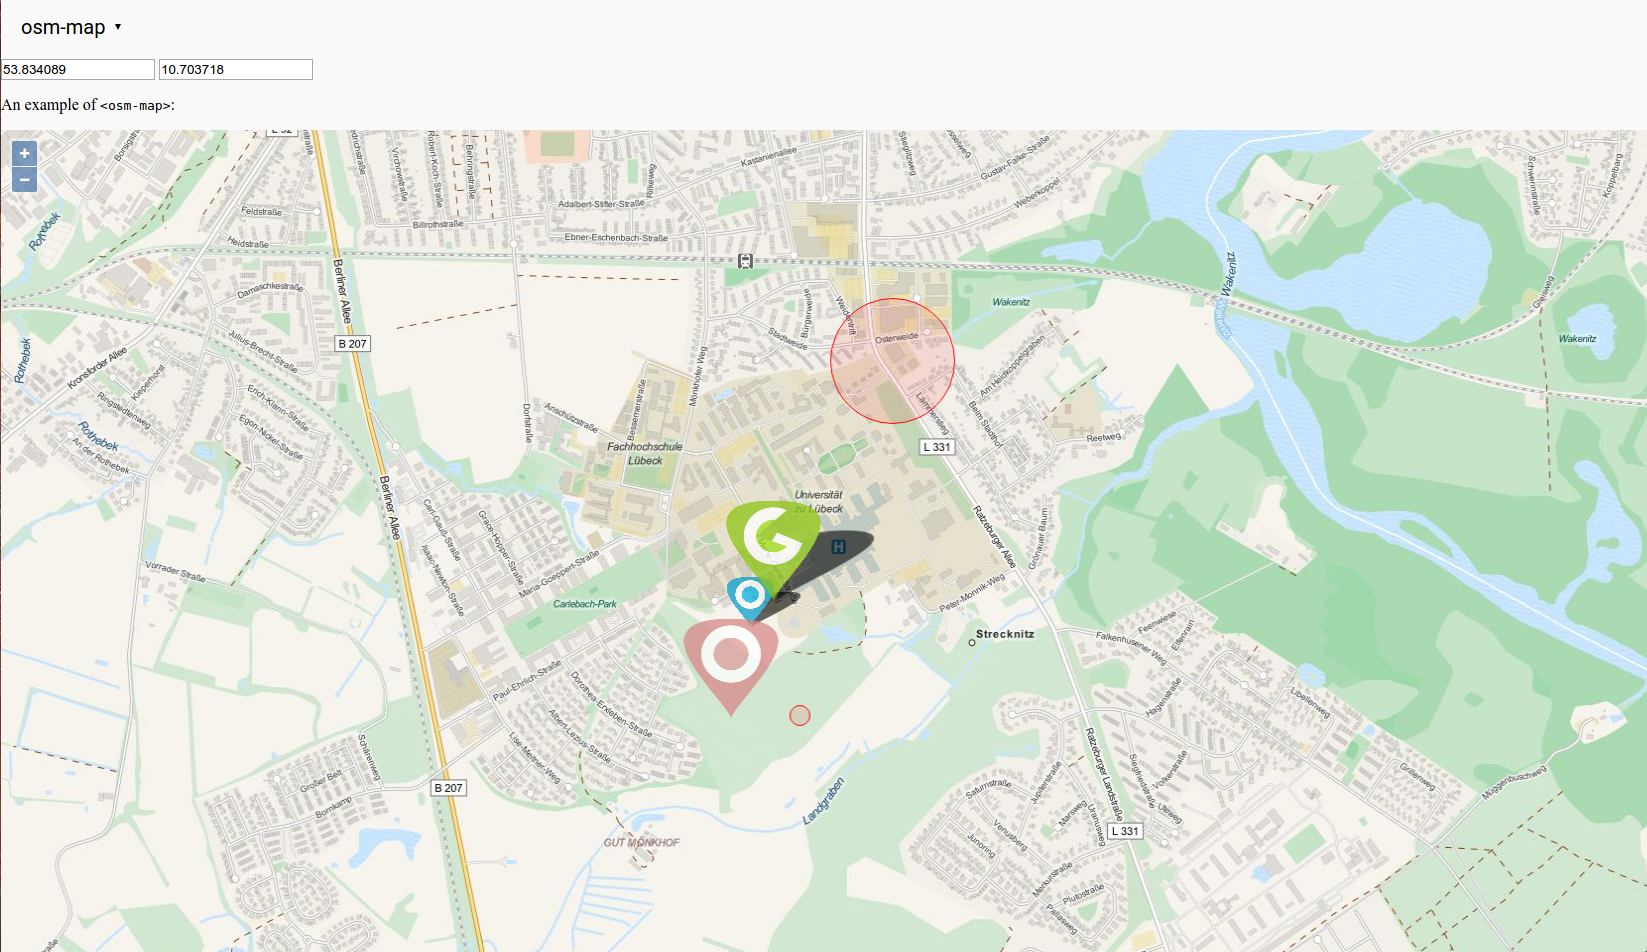
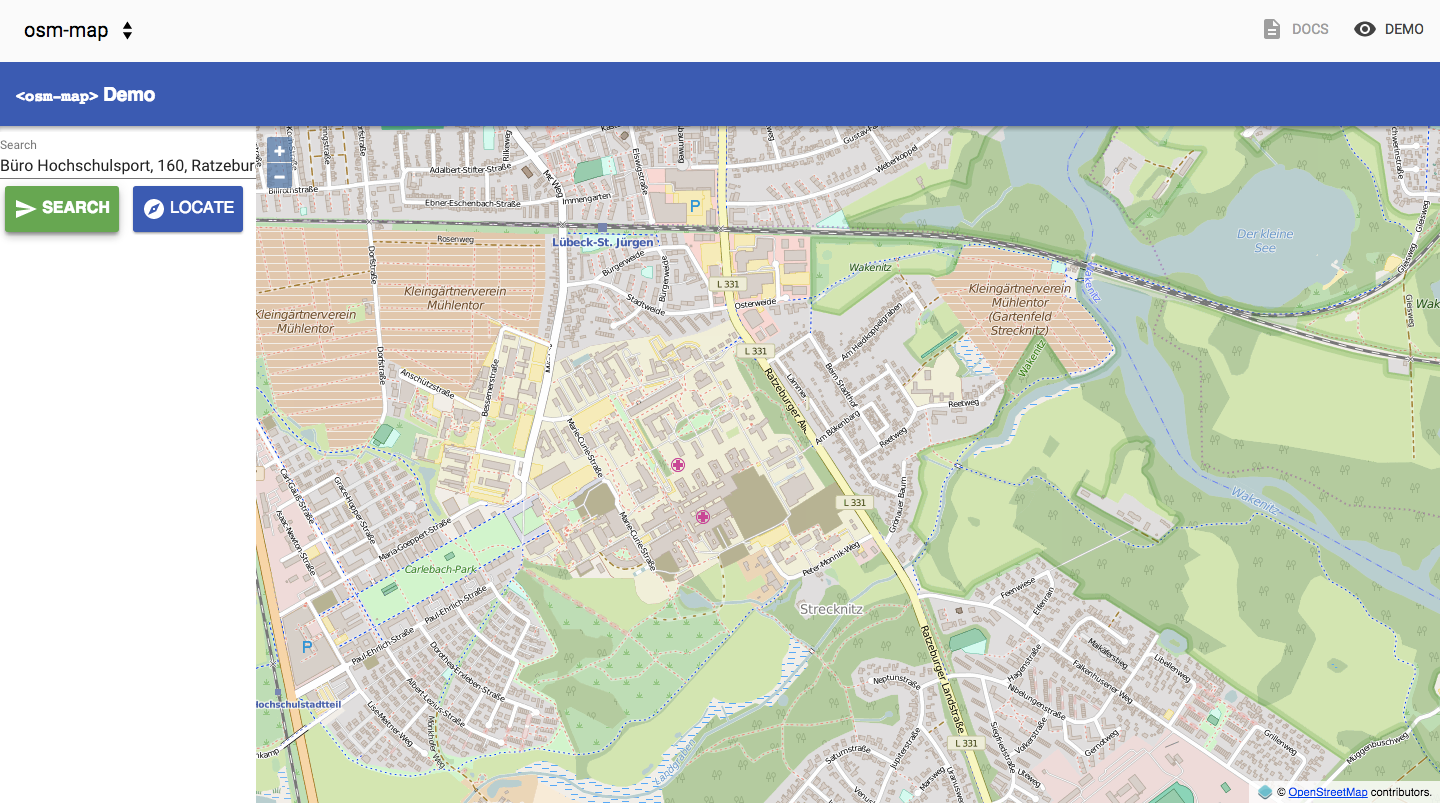
add location and geocoding to demo

diff --git a/demo/index.html b/demo/index.html
@@ -12,9 +12,10 @@
     <link rel="import" href="../../paper-toolbar/paper-toolbar.html">
     <link rel="import" href="../../paper-icon-button/paper-icon-button.html">
     <link rel="import" href="../../paper-button/paper-button.html">
-    <link rel="import" href="../../iron-icons/iron-icons.html" >
-    <link rel="import" href="../../iron-icon/iron-icon.html" >
-    <link rel="import" href="../../iron-ajax/iron-ajax.html"></link>
+    <link rel="import" href="../../iron-icons/iron-icons.html">
+    <link rel="import" href="../../iron-icon/iron-icon.html">
+    <link rel="import" href="../../iron-ajax/iron-ajax.html">
+    <link rel="import" href="../../paper-styles/color.html">
     <link rel="import" href="../osm-map.html">
     <link rel="import" href="../osm-marker.html">
     <link rel="import" href="../osm-layer.html">
@@ -28,11 +29,19 @@
         overflow: hidden;  
         font-family: 'Open Sans', sans-serif;
       }
+
+      paper-button {
+        background-color: #3f51b5;
+        color: white;
+      }
+
+      paper-button.green {
+        background-color: #4caf50;
+      }
     </style>
   </head>
   <body unresolved>
     <template id="demo" is="dom-bind">
-
       <iron-ajax
         id="ajax"
         verbose
@@ -40,29 +49,26 @@
         on-response="finishedGeocoding">
       </iron-ajax>
 
-
       <paper-drawer-panel>
         <paper-header-panel drawer>
           <paper-toolbar>
             <h3><code>&lt;osm-map&gt;</code> Demo</h3>
           </paper-toolbar>
           <div main>
-            <datalist id="addresses">
-              <template is="dom-repeat" items="{{suggestions}}" as="suggestion">
-                  <option value="{{suggestion.display_name}}"></option>
-              </template>
-            </datalist>
 
-            <paper-input id="start" label="Start" type="search"
-              placeholder="Set a start address" autocomplete="on" list="addresses" on-keyup="cumputeStartSuggestions" results="5">
-            </paper-input>
-            <paper-input id="destination" label="Destination" type="search"
-              placeholder="Set a destination address" autocomplete="on" list="addresses" on-keyup="cumputeDestinationSuggestions" results="5">
-            </paper-input>
+            <paper-input id="search" label="Search" placeholder="Set a address"></paper-input>
 
-            <paper-button role="button" raised>
+            <paper-button class="green" role="button" on-tap="search" raised>
               <iron-icon icon="send"></iron-icon>
-              Start Navigation
+              Search
+            </paper-button>
+
+            <paper-button 
+              raised
+              class="colored"
+              on-tap="locate">
+              <iron-icon icon="explore"></iron-icon>
+              Locate
             </paper-button>
           </div>
         </paper-header-panel>
@@ -71,51 +77,38 @@
             <paper-icon-button icon="menu" paper-drawer-toggle></paper-icon-button>
           </paper-toolbar>
           
-          <osm-map class="content fit">
-            <osm-poly fill fill-color="rgba(0,10,150,0.4)">
-                <template is="dom-repeat" items="{{ points }}">
-                  <osm-point longitude$="{{ item.longitude }}" latitude$="{{ item.latitude }}"></osm-point>
-                </template>
-            </osm-poly>
+          <osm-map class="content fit" longitude="{{ longitude }}" latitude="{{ latitude }}" zoom="{{ zoom }}">
           </osm-map>
         </paper-header-panel>
       </paper-drawer-panel>
     </template>
   </body>
   <script>
-  //TODO: https://github.com/Project-OSRM/osrm-backend/wiki/Server-api
     var demo = document.querySelector('#demo');
 
-    demo.cumputeStartSuggestions = function () {
+    demo.search = function (event) {
       var ajax = document.querySelector('#ajax');
-      var start = document.querySelector('#start');
-      var requests = ajax.activeRequests;
-
-      if (requests.length > 0)
-        for (var i = 0; i < requests.length; i++) 
-          requests[i].abort();
-
-      document.querySelector('#ajax').url = "http://nominatim.openstreetmap.org/search?format=json&q="+start.value;
-      document.querySelector('#ajax').generateRequest();
+      var search = document.querySelector('#search');
+      ajax.url = "http://nominatim.openstreetmap.org/search?format=json&q="+search.value;
+      ajax.generateRequest();
     }
 
-    demo.cumputeDestinationSuggestions = function () {
-      var ajax = document.querySelector('#ajax');
-      var destination = document.querySelector('#destination');
-      var requests = ajax.activeRequests;
-
-      if (requests.length > 0)
-        for (var i = 0; i < requests.length; i++) 
-          requests[i].abort();
-
-      document.querySelector('#ajax').url = "http://nominatim.openstreetmap.org/search?format=json&q="+destination.value;
-      document.querySelector('#ajax').generateRequest();
+    demo.locate = function (event) {
+      navigator.geolocation.getCurrentPosition( function (position) {
+        demo.longitude = position.coords.longitude;
+        demo.latitude = position.coords.latitude;
+        demo.zoom = 18;
+      });
     }
 
     demo.finishedGeocoding = function (request) {
-      demo.suggestions = request.detail.response;
-      console.log(demo.suggestions)
+      var result = request.detail.response[0];
+      if(result) {
+        document.querySelector('#search').value = result.display_name;
+        demo.longitude = result.lon;
+        demo.latitude = result.lat;
+        demo.zoom = 18;
+      }
     }
-    
   </script>
 </html>

diff --git a/osm-poly.html b/osm-poly.html
@@ -3,7 +3,15 @@
 <script src="http://openlayers.org/en/v3.11.2/build/ol.js"></script>
 
 <!--
-An open street map element based on polymer 1.0 .
+The `osm-poly` element provides a possibility to draw on the `osm-map`element.
+
+Example:
+
+    <osm-poly fill fill-color="rgba(0,10,150,0.4)">
+        <template is="dom-repeat" items="{{ points }}">
+          <osm-point longitude$="{{ item.longitude }}" latitude$="{{ item.latitude }}"></osm-point>
+        </template>
+    </osm-poly> 
 
 @demo demo/index.html
 -->
@@ -13,24 +21,36 @@ An open street map element based on polymer 1.0 .
     Polymer({
       is: 'osm-poly',
       properties: {
+        /**
+         * The stroke color.
+         */ 
         strokeColor: {
           type: String,
           value: '#0091ea',
           notify: true
         },
 
+        /**
+         * A stroke width.
+         */
         width: {
           type: Number,
           value: 4,
           notify: true
         },
 
+        /**
+         * If true the polygon will be filled.
+         */
         fill: {
           type: Boolean,
           value: false,
           notify: true
         },
 
+        /**
+         * Defines a fill color for the polygon. Requires fill = true. 
+         */
         fillColor: {
           type: String,
           value: 'rgba(0,150,10,0.4)',

diff --git a/osm-marker.html b/osm-marker.html
@@ -2,7 +2,18 @@
 <script src="http://openlayers.org/en/v3.11.2/build/ol.js"></script>
 
 <!--
-An open street map element based on polymer 1.0 .
+The `osm-marker` element draws a marker at the given position
+with a specified image. (Marker without image attribute are displayed as circles)
+
+Example:
+
+  <osm-map latitude="53.834089" longitude="10.703718" zoom="16">
+      <osm-marker longitude="10.703718" latitude="53.834089" scale="0.2" image="../data/marker-blue-shadow.png"></osm-marker>
+      <osm-marker longitude="10.705318" latitude="53.835789" image="../data/marker-green-icon-shadow.png"></osm-marker>
+      <osm-marker longitude="10.702318" latitude="53.832789" image="../data/marker-red.png"></osm-marker>
+      <osm-marker longitude="10.705318" latitude="53.830789"></osm-marker>
+      <osm-marker longitude="10.709318" latitude="53.839789" scale="2.5"></osm-marker>
+  </osm-map>
 
 @demo demo/index.html
 -->

diff --git a/osm-point.html b/osm-point.html
@@ -2,7 +2,8 @@
 <script src="http://openlayers.org/en/v3.11.2/build/ol.js"></script>
 
 <!--
-An open street map element based on polymer 1.0 .
+The `osm-point` element is used within the `osm-poly` element, 
+which will connect the points to lines. See `osm-poly` documentation.
 
 @demo demo/index.html
 -->
